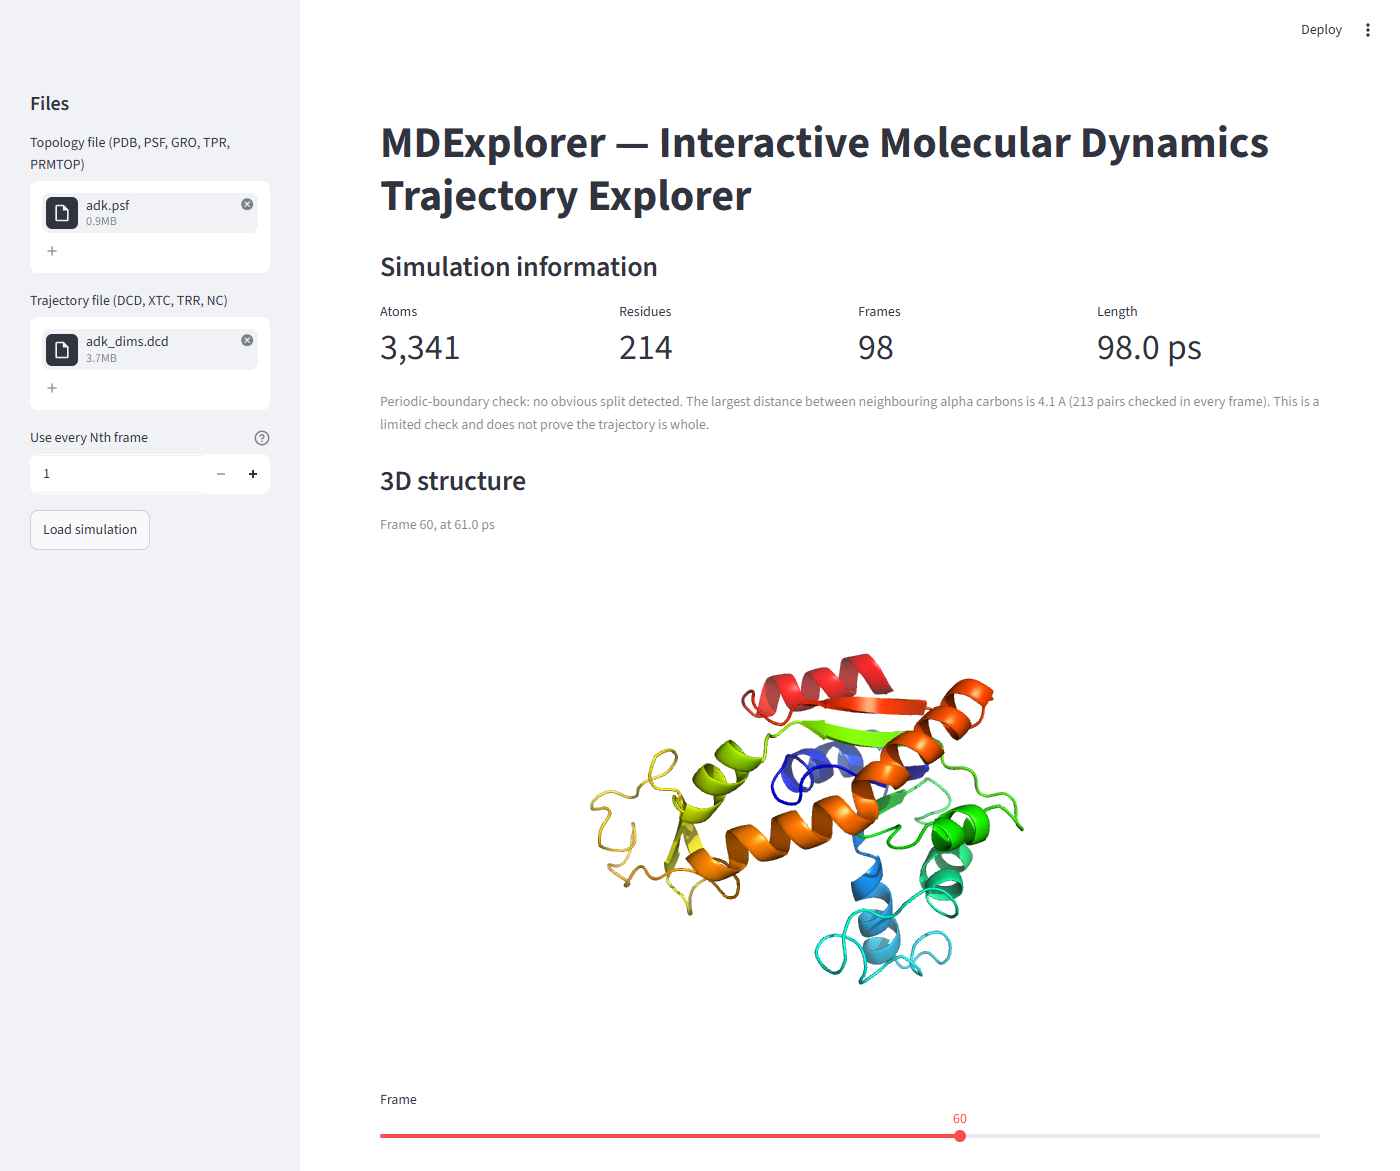
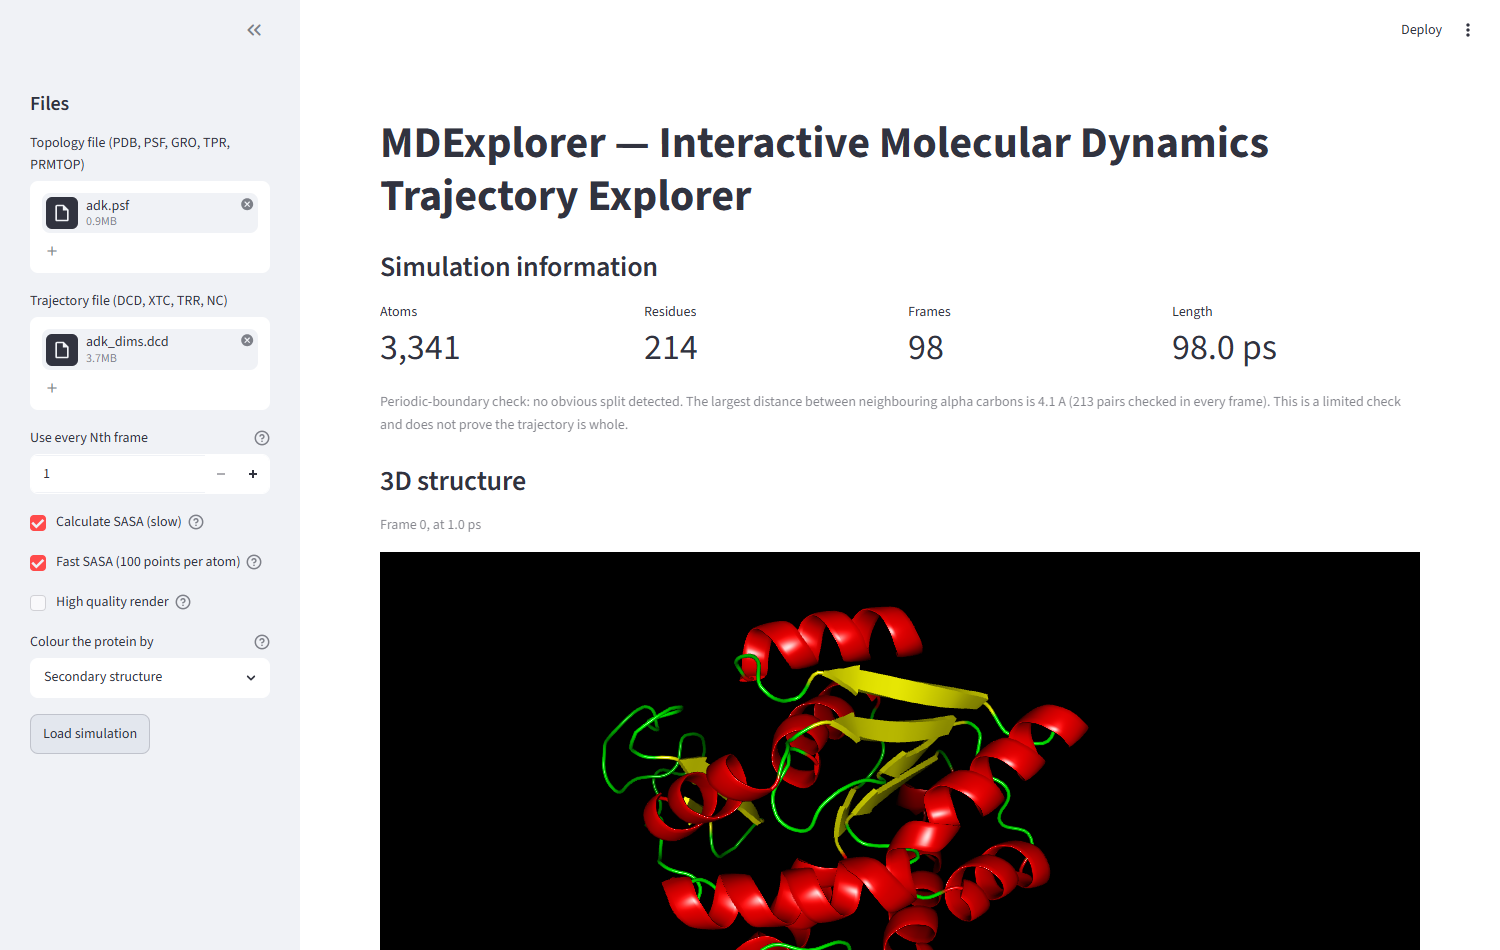
Update README and screenshots for the new features

diff --git a/README.md b/README.md
@@ -42,75 +42,141 @@ solvent box around the protein would dominate the results.
 | RMSF | which residues are flexible and which are rigid | our own Python code, one value per alpha carbon, aligned with the same Kabsch step as RMSD |
 | Radius of gyration | how compact the folded protein is | our own Python code, mass weighted |
 | Centre of mass | whether the protein is drifting through the box | our own Python code |
-| Hydrogen bonds | whether the folded structure is holding together | our own Python code, the Baker-Hubbard geometric rule: H...acceptor under 2.5 A and a donor-H...acceptor angle over 120 degrees |
+| Hydrogen bonds | whether the folded structure is holding together | our own Python code, the Baker-Hubbard geometric rule: H...acceptor under 2.5 A and a donor-H...acceptor angle over 120 degrees. Each bond is counted as **within a chain** (intra-chain) or **between two chains** (inter-chain), by the chain label of its donor and acceptor |
 | SASA | how much surface is exposed to water | freesasa (Shrake-Rupley, 960 points per atom, or 100 for the faster option) |
 | Secondary structure | the helix / sheet / coil percentages | mdtraj (DSSP, simplified 3-class output: H, E, C) |
+| Torsion angles (phi / psi) | the backbone angles of each residue, frame by frame | mdtraj (`compute_phi`, `compute_psi`), stored per residue; blank where an angle does not exist (phi of a chain's first residue, psi of its last) |
+| PCA | the main directions in which the protein moves | our own NumPy code: every frame's alpha carbons fitted onto frame 0 (the same Kabsch step), then the principal components from an SVD |
 
-The last two use a library because the algorithms behind them are much bigger
-than the rest. Everything else is calculated directly from the NumPy arrays.
+SASA, secondary structure and the torsion angles use a library because the algorithms
+behind them are much bigger than the rest. Everything else is calculated directly from
+the NumPy arrays.
+
+## Everything is calculated once, at load
+
+All the work happens right after **Load simulation**: every measurement, the RMSD against
+**every** possible reference frame (a frames x frames table), the 3D picture of every frame
+and the CSV files. Everything is kept as NumPy arrays, so once the page appears, clicking a
+point on a graph, moving the frame slider or changing the RMSD reference frame only looks
+values up and answers at once. Loading takes longer in exchange; see Known limitations.
 
 ## What the page does
 
-* the protein is drawn in 3D with PyMOL (rendered as an image of the current
-  frame), and a slider moves through the frames
-* the graph can be clicked to jump the 3D view to that frame
-* dragging a box across the graph selects a range of frames, and the averages
-  over that range are shown underneath
+* **3D structure, drawn by PyMOL**: cartoon, ligands as sticks, and magenta dots on the
+  protein residues within 5 A of a ligand (the binding pocket). Black background, like PyMOL.
+  * **Free rotation** (on by default): drag to rotate, scroll to zoom, right-drag to move.
+    These are PyMOL's own 3D shapes, exported and drawn in the browser with three.js using
+    PyMOL's lighting settings and depth cueing, so it looks like the PyMOL picture.
+  * Untick it for the **still PyMOL picture** of the frame. It changes frame instantly.
+  * In both, **click an atom** (the alpha carbon of a residue, or any ligand atom) to label it
+    with its chain, residue and atom name. Click a second atom to get a **yellow dashed line
+    with the distance** in A, like PyMOL's distance measurement. In the still picture the
+    labels stay when you change frame, so you can watch a distance change.
+  * **Colour the protein by** (sidebar): secondary structure (helices red, strands yellow,
+    loops green, the default), rainbow (blue at the first residue to red at the last) or chain.
+* **Play frames**: pick a range of frames and the speed, and play them to watch the protein
+  move. Stop, or any other click, ends it.
+* the graphs can be clicked to jump the 3D view to that frame
+* dragging a box across the RMSD, Rg or H-bond graph selects a range of frames, and the
+  averages over that range are shown underneath
+* **Graphs**: RMSD, RMSF, radius of gyration, **hydrogen bonds** (within chains, between
+  chains and total) and **PCA** (each frame as a dot along the first two principal components,
+  coloured by time; clicking a dot jumps to that frame)
+* **Torsion angles**: pick a residue to see its phi and psi over the whole trajectory, next to
+  a Ramachandran plot of every residue in the frame on screen
 * if one measurement cannot be calculated, the page says which one and shows
   the reason, and the other measurements still appear
 * **Use every Nth frame** (sidebar): a long trajectory can be read every 10th or
   100th frame. The frames keep their original times and numbers.
 * **RMSD reference frame**: RMSD is measured against the first frame unless you
-  pick another one. Changing it recalculates only the RMSD.
+  pick another one. Every reference was calculated at load, so the switch is instant.
 * **GROMACS-style graphs**: one checkbox switches the graphs to time in ns and
   distances in nm, like `gmx rms`, `gmx gyrate` and `gmx rmsf` plots. Clicking a
   point still jumps to the right frame. The numbers under the graph stay in ps
   and A.
-* **Download the results** as two CSV files: every per-frame value, and the RMSF
-  of each residue.
+* **Download the results** as two CSV files: every per-frame value (now including the
+  within/between-chain hydrogen bonds and PC1 and PC2), and the RMSF of each residue.
 
 ## Screenshots
 
 The screenshots use Adenylate Kinase (214 residues, 3,341 atoms, 98 frames)
-from the MDAnalysis test files (`adk.psf` + `adk_dims.dcd`).
+from the MDAnalysis test files (`adk.psf` + `adk_dims.dcd`), loaded through the page with
+every frame, SASA and Fast SASA on, and the default colours.
 
-**Overview: file upload (with "Use every Nth frame"), simulation information and
-the 3D structure at the chosen frame.** The slider moves through the frames.
+**Overview: the sidebar (files, "Use every Nth frame", the SASA tick boxes, high quality
+render and the colour scheme), simulation information and the 3D structure.** Loading these
+98 frames with SASA took about 200 s on the development PC; after that every click answers
+at once.
 
-![Overview of the page: uploaded files, simulation information and the 3D structure](screenshots/01_overview.png)
+![Overview of the page: uploaded files, sidebar options, simulation information and the 3D structure](screenshots/01_overview.png)
 
-**RMSD graph, the CSV download buttons and the numbers for the frame on screen.**
-The red dashed line marks the frame shown in 3D. Clicking a point on the graph
-jumps to that frame.
+**Free rotation.** PyMOL's own 3D shapes, turned with the mouse. Two atoms were clicked:
+each gets a label (chain, residue, atom) and the yellow dashed line gives their distance in A.
 
-![RMSD graph with the current frame marked, and the measurements for that frame](screenshots/02_analysis_rmsd.png)
+![The 3D structure turned with the mouse, with two labelled atoms and the distance between them](screenshots/02_3d_free_rotation.png)
+
+**The still PyMOL picture** (free rotation unticked), with two clicked atoms and their
+distance. Here the labels stay when the frame changes, and the distance follows the frame.
+
+![The still PyMOL picture with two labelled atoms and their distance](screenshots/03_3d_still_picture.png)
+
+**Colour schemes** (sidebar, "Colour the protein by"): secondary structure (top left),
+rainbow (top right) and chain (bottom left), drawn by PyMOL; bottom right is the free-rotation
+view in secondary-structure colours.
+
+![The same protein coloured by secondary structure, rainbow and chain, and the free-rotation view](screenshots/14_colour_schemes.png)
+
+**Play frames**: choose the range and the speed, then Play.
+
+![The play frames controls: a frame range, frames per second, Play and Stop](screenshots/04_play_frames.png)
+
+**RMSD graph with a selected range.** The red dashed line marks the frame shown in 3D;
+clicking a point jumps to that frame. Dragging a box (after picking the box select tool in
+the chart's toolbar) shades a range of frames...
+
+![RMSD graph with the current frame marked and frames 33 to 59 shaded](screenshots/05_rmsd_graph_range.png)
+
+...and shows the averages over those frames:
+
+![Averages of RMSD, Rg, SASA and hydrogen bonds over the selected frames](screenshots/06_selected_frames.png)
+
+**Hydrogen bonds**: within chains, between chains and the total. This protein has one chain,
+so "within" is the total and "between" is 0.
+
+![Hydrogen bonds per frame, within chains, between chains and total](screenshots/07_hydrogen_bonds.png)
+
+**PCA**: each dot is one frame, placed along the two biggest movements of the alpha carbons
+and coloured by time (here PC1 explains 90% of the motion). Clicking a dot jumps to that frame;
+the red ring marks the frame on screen.
+
+![PCA plot: every frame along PC1 and PC2, coloured by frame number](screenshots/08_pca.png)
 
 **RMSF per residue**, with the real residue numbers on the x axis.
 
-![RMSF bar chart for each residue](screenshots/03_rmsf.png)
+![RMSF bar chart for each residue](screenshots/09_rmsf.png)
 
-**Frame-range selection.** Dragging a box across the graph shades the range and
-shows the averages (and the lowest and highest RMSD) over those frames.
+**Torsion angles** of one residue (here GLY 12) over the whole trajectory, and the
+Ramachandran plot of all residues in the frame on screen, the chosen residue in red.
 
-![A selected range of frames and its average RMSD, Rg, SASA and hydrogen bonds](screenshots/04_range_selection.png)
+![Phi and psi of GLY 12 over time, and the Ramachandran plot of frame 0](screenshots/10_torsion_angles.png)
+
+**The download buttons and the numbers for the frame on screen**, including the hydrogen
+bonds within and between chains.
+
+![CSV download buttons and the measurements of the current frame](screenshots/11_this_frame.png)
 
 **GROMACS-style graphs and another RMSD reference frame.** The checkbox shows time
 in ns and distances in nm. Here frame 30 is the reference, so the curve reaches 0
 at frame 30.
 
-![RMSD against frame 30 with time in ns and distance in nm](screenshots/06_gromacs_units_and_reference.png)
-
-The sidebar has two SASA tick boxes. **Calculate SASA** turns it on; **Fast SASA** (on by default) uses
-100 sphere points per atom instead of 960, about 5x faster:
-
-![The sidebar with the Calculate SASA and Fast SASA tick boxes, and the 3D structure](screenshots/07_fast_sasa_option.png)
+![RMSD against frame 30 with time in ns and distance in nm](screenshots/12_gromacs_units_and_reference.png)
 
 **Periodic-boundary warning.** This raw GROMACS output (`adk_oplsaa.gro` +
 `adk_oplsaa.xtc`) has the protein cut by the edge of the simulation box, which is
 visible in the 3D picture. MDExplorer warns that RMSD, RMSF and the other
 measurements may be misleading (see the next section).
 
-![Warning that the protein may cross a periodic boundary, with the split protein shown in 3D](screenshots/05_periodic_boundary_warning.png)
+![Warning that the protein may cross a periodic boundary, with the split protein shown in 3D](screenshots/13_periodic_boundary_warning.png)
 
 ## Periodic-boundary warning
 
@@ -186,7 +252,8 @@ For that protein MDExplorer finds an RMSD that rises to 1.39 nm, a radius of gyr
 falling from 3.11 to 2.70 nm, and the largest fluctuation (1.92 nm) at residue 430 in the
 flexible C-terminal end. Loading all 10,001 frames takes 9 s and 0.9 GB. All seven measurements
 for all 10,001 frames took about 220 seconds with Fast SASA, about 70% of it SASA (157 s;
-hydrogen bonds 12 s).
+hydrogen bonds 12 s). That timing is from before the load also drew a 3D picture of every frame
+and the RMSD against every reference frame, so a load is now slower (see Known limitations).
 
 **GROMACS itself was not installed on the development computer**, so the "as GROMACS
 defines it" row is MDAnalysis using GROMACS's definitions, not GROMACS's own output. To finish
@@ -217,7 +284,15 @@ this code); SASA from freesasa is within 0.03 to 0.74% of mdtraj's on five frame
 different atomic radii); secondary structure agrees with MDAnalysis' own DSSP for 96.6%
 of residues.
 
-**File formats.** All seven measurements ran on every combination tried:
+**The newer measurements.** The phi and psi angles agree with MDAnalysis' `Ramachandran`
+analysis to 4 decimal places (cobrotoxin, MDAnalysis test files). The split of hydrogen bonds
+was checked on HIV protease (`1hvr.pdb`, two chains): 126 within chains and 21 between them;
+a single-chain protein gives 0 between chains. The RMSD table for every reference frame was
+checked against a fresh RMSD calculation for that reference. PCA has not been compared with
+another program.
+
+**File formats.** The first seven measurements (not yet the torsion angles and PCA) ran on
+every combination tried:
 
 | Topology + trajectory | Tested with |
 | --- | --- |
@@ -259,11 +334,25 @@ For a whole protein the effect of one pair is tiny, but MDExplorer does not warn
 * Streamlit's upload limit is raised to 2,000 MB in `.streamlit/config.toml`; a bigger
   trajectory has to be shortened first (for example `gmx trjconv -dt`).
 * Loading time depends on the number of frames, the number of atoms and your
-  computer. Example from one Windows PC with 12 logical cores: a 7,148-atom protein,
-  10,001 frames, every frame, took about 220 s in total with Fast SASA (SASA about 157 s,
-  hydrogen bonds 12 s, secondary structure 23 s, loading 5 s). A 3,341-atom protein took
-  about 0.14 s per frame for SASA at 960 points on one core. These are examples, not
-  guarantees; use **Use every Nth frame** to cut the time further.
+  computer. Everything is calculated at load, so loading is the slow part: Adenylate Kinase
+  (3,341 atoms, 98 frames, SASA with Fast SASA) took about 200 s on the development PC,
+  including a PyMOL picture of every frame. The RMSD against every reference frame grows with
+  the square of the number of frames, so a long trajectory should be read with **Use every
+  Nth frame**. Older example, before the pictures and the RMSD table were added: a 7,148-atom
+  protein, 10,001 frames, took about 220 s with Fast SASA. These are examples, not guarantees.
+* Each frame's picture is kept in memory (about 100 KB per frame).
+* **Free rotation** builds the 3D shapes of a frame when that frame is shown (about half a
+  second, and a few MB sent to the browser), because keeping them for every frame would need
+  several MB per frame. The still picture changes frame instantly, and playback uses it.
+  Free rotation also needs internet in the browser (three.js is loaded from a CDN), and its
+  labels are cleared when the frame changes.
+* Only alpha carbons and ligand atoms can be clicked in the 3D view (side chains are not drawn).
+* A residue counts as protein if its name is a standard amino acid or one of the common
+  force-field and modified names listed in `viewer.py` (HSD, HIE, CYX, MSE, ...). Anything
+  else is drawn as a ligand, with pocket dots around it; an unusual residue name may need
+  adding to that list.
+* The hydrogen-bond split uses the chain (segment) label of each atom. A file that gives all
+  chains the same label counts every bond as "within chains".
 
 ## Libraries used
 
@@ -272,10 +361,11 @@ For a whole protein the effect of one pair is tiny, but MDExplorer does not warn
 | MDAnalysis | opening the simulation files |
 | NumPy | all the arrays and most of the maths |
 | freesasa | SASA |
-| mdtraj | DSSP (secondary structure) |
+| mdtraj | DSSP (secondary structure) and the phi / psi angles |
 | Streamlit | the web page |
-| Plotly | the graphs |
-| PyMOL (pymol-open-source-whl) | the 3D view |
+| Plotly | the graphs, and the clickable still 3D picture |
+| PyMOL (pymol-open-source-whl) | the 3D pictures, and the 3D shapes for free rotation |
+| three.js (loaded in the browser, not installed) | drawing PyMOL's 3D shapes for free rotation |
 
 ## Files
 
@@ -283,8 +373,8 @@ There are only four of them:
 
 ```
 molecule.py    the MolecularSystem class, and reading a file into one
-analysis.py    all seven measurements, and the CSV files
-viewer.py      writes a frame as PDB text and draws it in 3D
+analysis.py    all the measurements, and the CSV files
+viewer.py      draws a frame with PyMOL (picture and free-rotation view)
 app.py         the Streamlit page, this is what you run
 ```
 
@@ -292,7 +382,7 @@ Besides them: `.streamlit/config.toml`, which raises the upload limit.
 
 ## Running it
 
-Install the requirements once:
+Install the requirements once (and again after updating, in case they changed):
 
 ```
 pip install -r requirements.txt
@@ -310,3 +400,6 @@ Upload the topology file first (PDB, PSF, GRO, TPR or PRMTOP), then the
 trajectory file (DCD, XTC, TRR or NC), and click **Load simulation**. A plain
 `.pdb` file already contains coordinates, so for that one no trajectory file is
 needed. For a long trajectory, set **Use every Nth frame** before loading.
+
+After changing the code, stop the app (Ctrl + C in the terminal) and start it again;
+refreshing the browser alone can keep an old copy of `viewer.py` loaded.
